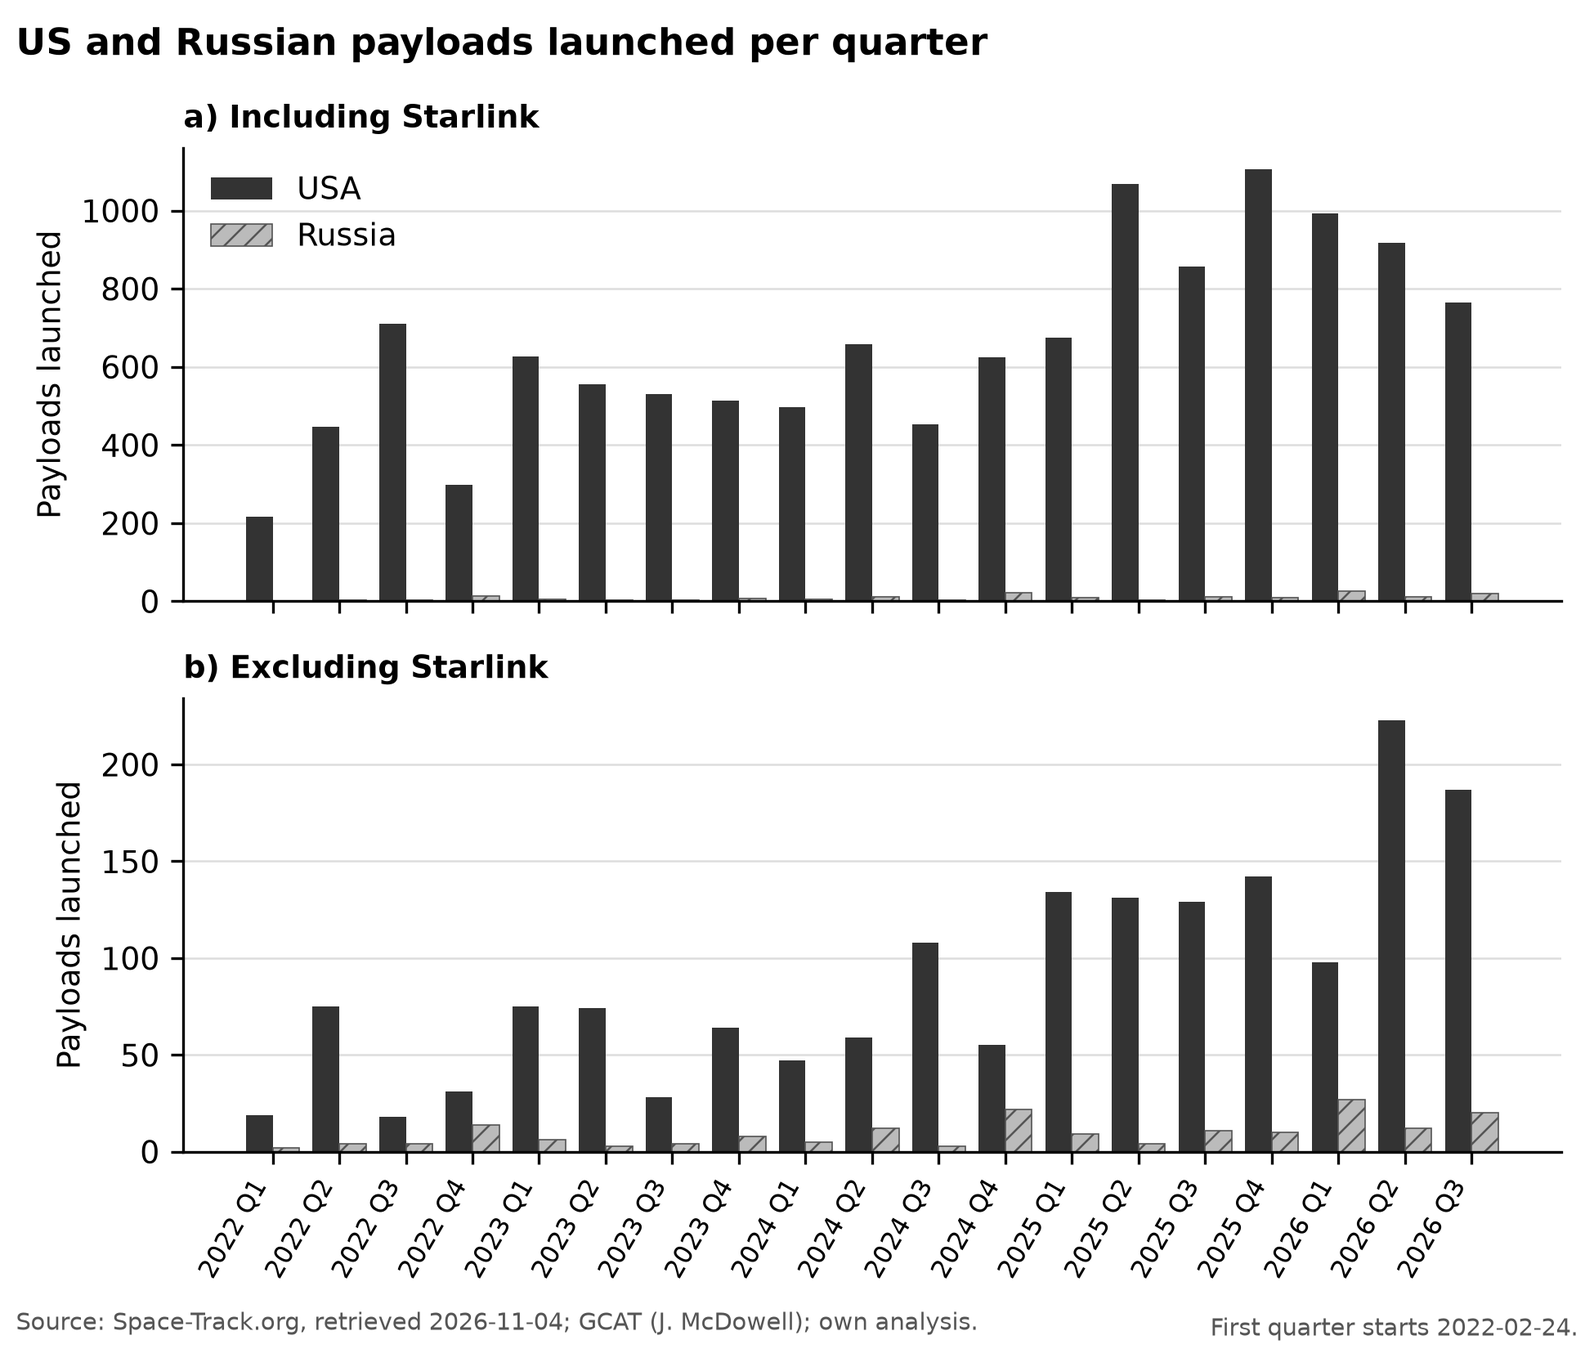
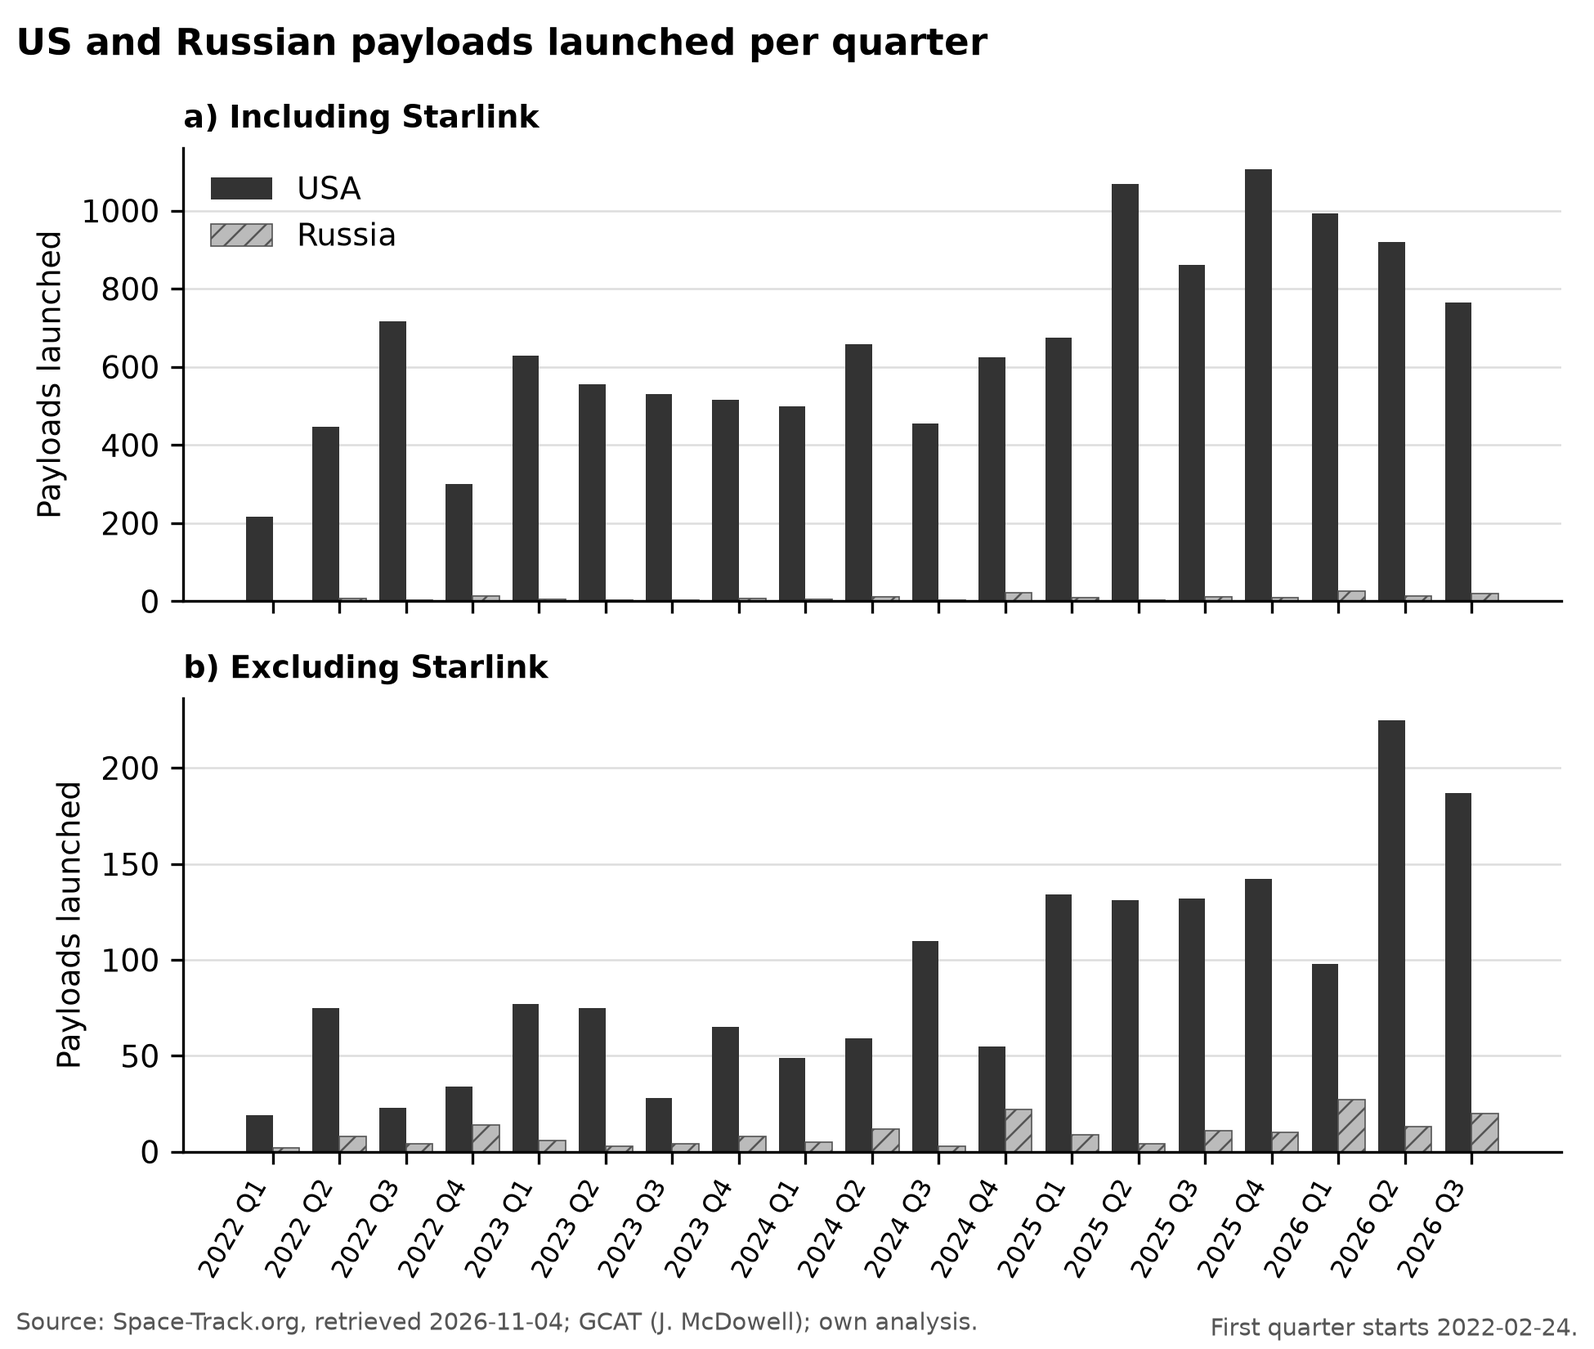
Include ISS-deployed satellites, apply review fixes
ISS-deployed payloads carry the ISS designator and 1998 launch date in
SATCAT, so the date filter missed them. Download them separately and
take the real launch date from GCAT. Generalise the H1 rule to four
groups, mark GLONASS source and document method details.

diff --git a/src/02_classify.py b/src/02_classify.py
@@ -2,8 +2,10 @@
 
 Input:
   data/raw/satcat_*.csv          (newest file, from 01_download.py)
+  data/raw/iss_deployed_*.csv    (newest file, from 01_download.py)
   data/raw/gcat/psatcat_*.tsv    (newest file, GCAT payload catalog by J. McDowell,
                                   https://planet4589.org/space/gcat/)
+  data/raw/gcat/satcat_*.tsv     (GCAT main catalog, real launch dates of ISS-deployed sats)
   manual_overrides.csv           (hand-made corrections, win over everything)
 
 Output:
@@ -22,7 +24,7 @@ Usage (from project root):  python src/02_classify.py
 
 import pandas as pd
 
-from common import DATA_PROCESSED, DATA_RAW, MANUAL_OVERRIDES, newest_file
+from common import DATA_PROCESSED, DATA_RAW, MANUAL_OVERRIDES, PERIOD_END, PERIOD_START, newest_file
 
 # ---------------------------------------------------------------------------
 # Settings
@@ -83,6 +85,38 @@ def load_gcat():
     return gcat[["NORAD_CAT_ID", "gcat_class", "gcat_category"]]
 
 
+def load_iss_deployed(gcat_payload_ids):
+    """Return ISS-deployed payloads whose cargo flight launched in the study period.
+
+    Space-Track gives them the ISS designator and launch date (1998). GCAT's main
+    catalog has the real launch date of the cargo flight (LDate) and its
+    designator (Launch_Tag), so we take those from GCAT.
+    Objects that GCAT does not list as payloads (e.g. items thrown away during
+    spacewalks) are dropped.
+    """
+    iss = pd.read_csv(newest_file(DATA_RAW, "iss_deployed_*.csv"))
+    not_payload = ~iss["NORAD_CAT_ID"].isin(gcat_payload_ids)
+    print(f"ISS objects dropped (not a payload in GCAT): {not_payload.sum()}")
+    iss = iss[~not_payload]
+    path = newest_file(DATA_RAW / "gcat", "satcat_*.tsv")
+    gcat = pd.read_csv(path, sep="\t", skiprows=[1], dtype=str)
+    gcat.columns = [c.lstrip("#").strip() for c in gcat.columns]
+    gcat = gcat.apply(lambda col: col.str.strip())
+    gcat = gcat[gcat["Satcat"].str.match(r"^\d+$", na=False)].copy()
+    gcat["NORAD_CAT_ID"] = gcat["Satcat"].astype(int)
+
+    iss = iss.merge(gcat[["NORAD_CAT_ID", "LDate", "Launch_Tag"]], on="NORAD_CAT_ID", how="left")
+    print(f"ISS-deployed payloads (all years): {len(iss)}, without GCAT date: {iss['LDate'].isna().sum()}")
+
+    # GCAT date '2022 Jun  3' (sometimes with time or '?') -> keep year, month, day
+    ldate = pd.to_datetime(iss["LDate"].str.split().str[:3].str.join(" "), format="%Y %b %d")
+    iss["LAUNCH"] = ldate.dt.strftime("%Y-%m-%d")
+    iss = iss[(iss["LAUNCH"] >= PERIOD_START) & (iss["LAUNCH"] <= PERIOD_END)].copy()
+    iss["launch_id"] = iss["Launch_Tag"]
+    print(f"ISS-deployed payloads launched in study period: {len(iss)}")
+    return iss.drop(columns=["LDate", "Launch_Tag"])
+
+
 def category_from_name(row):
     for country, prefix, category in NAME_RULES:
         if row["COUNTRY"] == country and row["OBJECT_NAME"].startswith(prefix):
@@ -127,8 +161,16 @@ def main():
     df["launch_id"] = df["INTLDES"].str.extract(r"^(\d{4}-\d{3})")[0]
     print(f"Records without launch id: {df['launch_id'].isna().sum()}")
 
-    # --- 2b) Category ---
     gcat = load_gcat()
+
+    # Add satellites deployed from the ISS (launch id = their cargo flight)
+    iss = load_iss_deployed(gcat["NORAD_CAT_ID"])
+    df["iss_deployed"] = False
+    iss["iss_deployed"] = True
+    df = pd.concat([df, iss], ignore_index=True)
+    print(f"Total records: {len(df)}")
+
+    # --- 2b) Category ---
     df = df.merge(gcat, on="NORAD_CAT_ID", how="left")
     print(f"Matched in GCAT: {df['gcat_class'].notna().sum()} of {len(df)}")
 
@@ -146,6 +188,7 @@ def main():
         & df["gcat_category"].fillna("").str.startswith("NAV")
     )
     df.loc[df["is_glonass"], "category"] = GLONASS_CATEGORY
+    df.loc[df["is_glonass"], "category_source"] = "glonass"
     print(f"GLONASS satellites: {df['is_glonass'].sum()} -> '{GLONASS_CATEGORY}'")
 
     # Manual overrides win over everything

diff --git a/src/03_charts.py b/src/03_charts.py
@@ -117,9 +117,9 @@ def rq1_military_missions(df):
     """Military satellites by mission type (from GCAT 'Category')."""
     mil = df[df["category"] == "military"].copy()
     code = mil["gcat_category"].fillna("").str.split("/").str[0].str.rstrip("?*")
-    mil["mission"] = code.map(MISSIONS).fillna("Other / not in GCAT")
+    mil["mission"] = code.map(MISSIONS).fillna("Not yet in GCAT / other")
     table = pd.crosstab(mil["mission"], mil["COUNTRY"].map(COUNTRY_LABEL))[["USA", "Russia"]]
-    order = list(MISSIONS.values()) + ["Other / not in GCAT"]
+    order = list(MISSIONS.values()) + ["Not yet in GCAT / other"]
     table = table.reindex(order, fill_value=0)
     table.loc["Total"] = table.sum()
     table.to_csv(TABLES / "rq1_military_missions.csv")
@@ -223,14 +223,18 @@ def evaluate_h1(shares):
     for name, value in leo.items():
         print(f"  {name:20s} {value:6.1%}")
 
-    overall = leo["USA excl. Starlink"] > LEO_THRESHOLD and leo["Russia"] > LEO_THRESHOLD
-    military = leo["US military"] > LEO_THRESHOLD and leo["Russian military"] > LEO_THRESHOLD
-    if overall and military:
-        result = "CONFIRMED (also for military satellites)"
-    elif overall:
-        result = "PARTIALLY CONFIRMED (holds overall, not for military satellites)"
+    # H1 wording includes military satellites, so all four groups are tested.
+    # Share = LEO / all payloads in the group, including those with unknown orbit
+    # (conservative). Starlink is left out so it does not decide the US result.
+    tested = ["USA excl. Starlink", "Russia", "US military", "Russian military"]
+    passed = [name for name in tested if leo[name] > LEO_THRESHOLD]
+    if len(passed) == len(tested):
+        result = "CONFIRMED (all tested groups above 50 %)"
+    elif passed:
+        failed = [name for name in tested if name not in passed]
+        result = f"PARTIALLY CONFIRMED (not met for: {', '.join(failed)})"
     else:
-        result = "REJECTED"
+        result = "REJECTED (no tested group above 50 %)"
     print(f"H1 result: {result}\n")
 
 

diff --git a/src/01_download.py b/src/01_download.py
@@ -31,6 +31,18 @@ QUERY = (
     "/format/csv"
 )
 
+# Satellites deployed from the ISS get the ISS designator (1998-067xx) and the
+# ISS launch date (1998-11-20), so the query above misses them. We download all
+# of them; 02_classify.py picks those that reached the ISS in the study period.
+ISS_QUERY = (
+    "/basicspacedata/query/class/satcat"
+    "/INTLDES/~~1998-067"
+    "/OBJECT_TYPE/PAYLOAD"
+    "/COUNTRY/US,CIS"
+    "/orderby/NORAD_CAT_ID asc"
+    "/format/csv"
+)
+
 # Columns the later steps rely on (see ANALYSIS_PLAN.md, step 1)
 EXPECTED_COLUMNS = [
     "NORAD_CAT_ID", "OBJECT_NAME", "INTLDES", "COUNTRY", "LAUNCH", "SITE",
@@ -47,6 +59,14 @@ def main():
     else:
         out_file.write_text(spacetrack_query(QUERY), encoding="utf-8")
         print(f"Saved to {out_file}")
+
+    iss_file = DATA_RAW / f"iss_deployed_{date.today().isoformat()}.csv"
+    if iss_file.exists():
+        print(f"{iss_file.name} already exists - skipping download.")
+    else:
+        iss_file.write_text(spacetrack_query(ISS_QUERY), encoding="utf-8")
+        print(f"Saved to {iss_file}")
+    print(f"ISS-deployed payloads (all years): {len(pd.read_csv(iss_file))}")
 
     # --- Quick check of what we downloaded ---
     df = pd.read_csv(out_file)

diff --git a/output/FINDINGS.md b/output/FINDINGS.md
@@ -1,7 +1,7 @@
 # Findings – USA vs Russia Satellite Tracking
 
 Data: Space-Track.org SATCAT (retrieved 2026-11-04) and GCAT by J. McDowell (version 2026-11-02); own analysis.
-Period: payloads launched **24 Feb 2022 – 30 Sep 2026**. 2022 is a partial year (from 24 Feb), 2026 covers January–September.
+Period: payloads launched **24 Feb 2022 – 30 Sep 2026**, including 26 small satellites deployed from the ISS (launch date = their cargo flight). 2022 is a partial year (from 24 Feb), 2026 covers January–September.
 All tables are generated by `src/03_charts.py` and `src/04_debris.py` (CSV versions in `output/tables/`).
 
 ---
@@ -12,11 +12,11 @@ All tables are generated by `src/03_charts.py` and `src/04_debris.py` (CSV versi
 
 |  | USA | USA excl. Starlink | Russia |
 |---|---:|---:|---:|
-| Orbital launches | 588 | 209 | 83 |
-| **Payloads total** | **12 510** | **1 697** | **180** |
-| Military | 513 | 513 | 71 |
-| Civil | 79 | 79 | 58 |
-| Commercial | 1 093 | 1 093 | 49 |
+| Orbital launches | 588 | 209 | 84 |
+| **Payloads total** | **12 531** | **1 718** | **185** |
+| Military | 514 | 514 | 71 |
+| Civil | 98 | 98 | 63 |
+| Commercial | 1 094 | 1 094 | 49 |
 | Starlink | 10 813 | – | – |
 | Unknown | 12 | 12 | 2 |
 
@@ -26,12 +26,12 @@ All tables are generated by `src/03_charts.py` and `src/04_debris.py` (CSV versi
 
 | Country | Category | 2022* | 2023 | 2024 | 2025 | 2026** | Total |
 |---|---|---:|---:|---:|---:|---:|---:|
-| USA | Military | 33 | 42 | 127 | 149 | 162 | 513 |
-| USA | Civil | 14 | 13 | 17 | 23 | 12 | 79 |
-| USA | Commercial | 95 | 186 | 125 | 364 | 323 | 1 093 |
+| USA | Military | 33 | 43 | 127 | 149 | 162 | 514 |
+| USA | Civil | 22 | 16 | 21 | 25 | 14 | 98 |
+| USA | Commercial | 95 | 186 | 125 | 365 | 323 | 1 094 |
 | USA | Starlink | 1 529 | 1 984 | 1 964 | 3 169 | 2 167 | 10 813 |
 | Russia | Military | 15 | 10 | 5 | 20 | 21 | 71 |
-| Russia | Civil | 5 | 11 | 27 | 10 | 5 | 58 |
+| Russia | Civil | 9 | 11 | 27 | 10 | 6 | 63 |
 | Russia | Commercial | 3 | 0 | 10 | 4 | 32 | 49 |
 
 *\* from 24 Feb 2022, \*\* until 30 Sep 2026. Unknown category omitted (14 payloads).*
@@ -42,20 +42,20 @@ All tables are generated by `src/03_charts.py` and `src/04_debris.py` (CSV versi
 |---|---:|---:|
 | Imaging / reconnaissance | 244 | 32 |
 | Communications | 74 | 17 |
-| Technology demonstration | 43 | 7 |
+| Technology demonstration | 44 | 7 |
 | Missile early warning | 23 | 1 |
 | Signals intelligence | 11 | 7 |
 | Navigation | 6 | 6 |
-| Other / not yet in GCAT | 112 | 1 |
-| **Total** | **513** | **71** |
+| Not yet in GCAT / other | 112 | 1 |
+| **Total** | **514** | **71** |
 
-*"Not yet in GCAT" = mostly US military satellites launched after July 2026, which GCAT has not catalogued yet.*
+*"Not yet in GCAT" = mostly US military satellites launched after GCAT's coverage ends (~July 2026); their mission is not unknown, just not yet catalogued.*
 
 ### What it shows
 
-- **The USA launched about 70× more payloads than Russia (12 510 vs 180).** The gap is driven by Starlink
+- **The USA launched about 70× more payloads than Russia (12 531 vs 185).** The gap is driven by Starlink
   (86 % of all US payloads), but even without Starlink the USA launched **9× more** payloads than Russia.
-- **Almost all payloads can be classified from open sources:** only 14 of 12 690 (0.1 %) remain unknown.
+- **Almost all payloads can be classified from open sources:** only 14 of 12 716 (0.1 %) remain unknown.
   Classification relies on catalogue names (e.g. `USA xxx`, `COSMOS xxxx`) and McDowell's GCAT, not on orbital data alone.
 - **US military launches grew roughly five-fold** from 33 (2022) to 162 (Jan–Sep 2026). The growth is in large LEO
   constellations (names `USA xxx` and `PRAETORIAN SDA`, i.e. Space Development Agency satellites).
@@ -72,18 +72,18 @@ All tables are generated by `src/03_charts.py` and `src/04_debris.py` (CSV versi
 
 | Group | n | LEO | MEO | HEO | GEO | Unknown |
 |---|---:|---:|---:|---:|---:|---:|
-| USA | 12 510 | 99.2 % | 0.1 % | 0.1 % | 0.5 % | 0.2 % |
-| USA excl. Starlink | 1 697 | 94.3 % | 0.4 % | 0.6 % | 3.4 % | 1.3 % |
-| Russia | 180 | 87.8 % | 6.7 % | 2.8 % | 2.2 % | 0.6 % |
-| US military | 513 | 90.4 % | 1.4 % | 0.0 % | 6.8 % | 1.4 % |
+| USA | 12 531 | 99.2 % | 0.1 % | 0.1 % | 0.5 % | 0.2 % |
+| USA excl. Starlink | 1 718 | 94.4 % | 0.4 % | 0.6 % | 3.3 % | 1.3 % |
+| Russia | 185 | 88.1 % | 6.5 % | 2.7 % | 2.2 % | 0.5 % |
+| US military | 514 | 90.5 % | 1.4 % | 0.0 % | 6.8 % | 1.4 % |
 | Russian military | 71 | 80.3 % | 11.3 % | 5.6 % | 2.8 % | 0.0 % |
 
-*LEO = apogee below 2 000 km; HEO = eccentricity above 0.25; GEO = period 1 400–1 460 min and eccentricity below 0.05; MEO = rest.*
+*LEO = apogee below 2 000 km; HEO = eccentricity above 0.25; GEO = period 1 400–1 460 min and eccentricity below 0.05; MEO = rest. Based on each satellite's current or last known orbit. Shares are taken over all payloads in the group, including those with unknown orbit (conservative).*
 
 ### What it shows
 
-- **H1 is confirmed, including for military satellites.** The LEO share is above 50 % in every group
-  (lowest: Russian military, 80 %).
+- **H1 is confirmed, including for military satellites.** Tested groups: USA excl. Starlink, Russia, US military and
+  Russian military; H1 holds if every group has more than 50 % in LEO. The lowest share is 80 % (Russian military).
 - **Russia uses MEO and HEO more than the USA.** MEO = GLONASS navigation satellites, HEO = highly elliptical
   orbits inclined at ~63° (visible in Figure 3), typical of Russian early-warning and communication systems
   that cover the northern hemisphere.

diff --git a/README.md b/README.md
@@ -14,11 +14,12 @@ pip install -r requirements.txt
 copy .env.example .env   # then fill in your Space-Track credentials
 ```
 
-The GCAT payload catalog is downloaded manually (no login needed):
+The GCAT catalogs are downloaded manually (no login needed):
 
 ```powershell
 mkdir data\raw\gcat
 curl.exe -o data\raw\gcat\psatcat_YYYY-MM-DD.tsv https://planet4589.org/space/gcat/tsv/cat/psatcat.tsv
+curl.exe -o data\raw\gcat\satcat_YYYY-MM-DD.tsv https://planet4589.org/space/gcat/tsv/cat/satcat.tsv
 ```
 
 ## Run
@@ -27,7 +28,7 @@ Run the scripts in order from the project root:
 
 | Script | What it does | Output |
 |---|---|---|
-| `src/01_download.py` | downloads US and Russian payloads from Space-Track SATCAT | `data/raw/satcat_<date>.csv` |
+| `src/01_download.py` | downloads US and Russian payloads from Space-Track SATCAT (+ ISS-deployed payloads) | `data/raw/satcat_<date>.csv`, `data/raw/iss_deployed_<date>.csv` |
 | `src/02_classify.py` | adds launch id, category (military / civil / commercial / Starlink) and orbit regime | `data/processed/satellites_classified.csv` |
 | `src/03_charts.py` | RQ1/RQ2 tables and charts, evaluates H1 | `output/tables/rq1_*, rq2_*`, `output/figures/fig1–3` |
 | `src/04_debris.py` | RQ3: Kosmos 1408 debris on orbit over time | `output/tables/rq3_debris.csv`, `output/figures/fig4_debris.png` |
@@ -37,8 +38,8 @@ Downloads run only once per day (if today's file exists, Space-Track is not cont
 ## Data sources
 
 - **Space-Track.org** SATCAT (account required), retrieved **2026-11-04**.
-- **GCAT** by Jonathan McDowell (planet4589.org), payload catalog `psatcat.tsv`, version updated 2026-11-02.
-  Used to classify satellites whose name does not reveal the operator.
+- **GCAT** by Jonathan McDowell (planet4589.org), `psatcat.tsv` and `satcat.tsv`, version updated 2026-11-02.
+  Used to classify satellites whose name does not reveal the operator and to date ISS-deployed satellites.
 - Raw and processed data are stored locally in `data/` and are **not** committed
   (Space-Track terms do not allow redistribution). Only aggregated tables and
   charts in `output/` are part of the repository.
@@ -47,6 +48,9 @@ Downloads run only once per day (if today's file exists, Space-Track is not cont
 
 - **Study period:** launches from 2022-02-24 (start of the Russian invasion of Ukraine) to 2026-09-30.
   Payloads only; decayed satellites are included. Russia = Space-Track country code `CIS`.
+- **ISS-deployed satellites:** Space-Track gives them the ISS designator and launch date (1998-067, 1998-11-20).
+  They are added separately; launch date and launch id are taken from their cargo flight (GCAT `LDate`, `Launch_Tag`).
+  Objects GCAT does not list as payloads (items jettisoned during spacewalks) are dropped. 26 satellites added (21 US, 5 Russia).
 - **Orbital launches** = distinct launches (international designator `YYYY-NNN`) carrying at least
   one payload of the country, regardless of the rocket's country.
 - **Category**, first match wins:
@@ -54,12 +58,17 @@ Downloads run only once per day (if today's file exists, Space-Track is not cont
   2. GCAT `Class` (D → military, C/A → civil, B → commercial),
   3. otherwise unknown; `manual_overrides.csv` overrides everything.
   GLONASS (COSMOS with GCAT category NAV) is counted as military (`GLONASS_CATEGORY` in `02_classify.py`).
-  Name rules agree with GCAT in 10 752 of 10 753 cases.
+  Name rules agree with GCAT in 10 746 of 10 747 cases.
 - **Orbit regime** from apogee, perigee and period: LEO (apogee < 2 000 km), HEO (eccentricity > 0.25),
   GEO (period 1 400–1 460 min, e < 0.05), otherwise MEO; unknown if orbital data are missing
   (deep-space missions and 7 US military satellites without published orbits).
+  The regime is based on the current or last known orbit, not the orbit at launch.
+- **H1 test:** LEO share = LEO / all payloads in the group (unknown orbits included, conservative).
+  Confirmed if USA excl. Starlink, Russia, US military and Russian military are all above 50 %;
+  partially confirmed if only some are; rejected if none.
 - **Limitation:** GCAT does not yet contain objects launched after ~11 July 2026 (new 6-digit NORAD numbers);
-  these were classified by name rules only.
+  these were classified by name rules only, have no mission type, and GLONASS satellites among them would not be
+  recognised (no effect now, COSMOS is military either way).
 
 ## Main results (retrieved 2026-11-04)
 
@@ -67,16 +76,16 @@ Downloads run only once per day (if today's file exists, Space-Track is not cont
 
 |  | USA | USA excl. Starlink | Russia |
 |---|---|---|---|
-| Orbital launches | 588 | 209 | 83 |
-| Payloads total | 12 510 | 1 697 | 180 |
-| Military | 513 | 513 | 71 |
-| Civil | 79 | 79 | 58 |
-| Commercial | 1 093 | 1 093 | 49 |
+| Orbital launches | 588 | 209 | 84 |
+| Payloads total | 12 531 | 1 718 | 185 |
+| Military | 514 | 514 | 71 |
+| Civil | 98 | 98 | 63 |
+| Commercial | 1 094 | 1 094 | 49 |
 | Starlink | 10 813 | – | – |
 | Unknown | 12 | 12 | 2 |
 
 **RQ2 – H1 (both countries focus on LEO): confirmed, also for military satellites.**
-LEO share: USA 99.2 %, USA excl. Starlink 94.3 %, Russia 87.8 %, US military 90.4 %, Russian military 80.3 %.
+LEO share: USA 99.2 %, USA excl. Starlink 94.4 %, Russia 88.1 %, US military 90.5 %, Russian military 80.3 %.
 
 **RQ3 – Kosmos 1408 ASAT test (2021-11-15):** 1 806 catalogued debris pieces (designator 1982-092).
 About half had decayed by mid-2022; 4 pieces remain on orbit at retrieval date.

diff --git a/ANALYSIS_PLAN.md b/ANALYSIS_PLAN.md
@@ -81,7 +81,7 @@ Pravidla podle `OBJECT_NAME`, v tomto pořadí:
 | obě | záznam je v `manual_overrides.csv` | hodnota ze souboru (má přednost před vším výše) |
 | obě | ostatní | `unknown` |
 
-Doplnění `unknown`: zkusit GCAT od Jonathana McDowella (planet4589.org, soubor s katalogem payloadů). Nejdřív stáhnout, vypsat hlavičky a ukázat, které pole obsahuje kategorii nebo vlastníka družice; teprve potom navrhnout mapování. Spojovat přes NORAD číslo. Co zůstane nezařazené, vypsat do `output/tables/unclassified.csv` k ruční kontrole.
+Doplnění `unknown`: zkusit GCAT od Jonathana McDowella (planet4589.org, soubor s katalogem payloadů). Nejdřív stáhnout, vypsat hlavičky a ukázat, které pole obsahuje kategorii nebo vlastníka družice; teprve potom navrhnout mapování. Spojovat přes NORAD číslo. Co zůstane nezařazené, vypsat do `data/processed/unclassified.csv` k ruční kontrole (obsahuje jednotlivé záznamy, proto ne do `output/`).
 
 **Otevřené rozhodnutí:** ruské navigační družice GLONASS mají v katalogu název `COSMOS xxxx`. Nastavit konstantu `GLONASS_CATEGORY` (výchozí `military`) a GLONASS družice identifikovat přes GCAT nebo ruční seznam. Výsledné rozhodnutí tým uvede v metodice.
 
@@ -127,7 +127,7 @@ Popisky grafů anglicky (report je v angličtině). Grafy musí být čitelné i
 
 **Tabulka `rq2_orbits.csv`:** stejná data v číslech.
 
-**Vyhodnocení hypotézy H1:** skript vypíše podíl LEO pro každou skupinu a výsledek pravidla: H1 je potvrzena, pokud je podíl LEO nad 50 % u USA (bez Starlinku) i u Ruska. Jinak zamítnuta nebo částečně potvrzena (např. platí celkově, ale ne pro vojenské družice).
+**Vyhodnocení hypotézy H1:** skript vypíše podíl LEO pro každou skupinu (LEO / všechny payloady skupiny, včetně neznámé orbity) a výsledek pravidla: H1 je potvrzena, pokud je podíl LEO nad 50 % u všech čtyř skupin (USA bez Starlinku, Rusko, US military, Russian military). Částečně potvrzena, pokud jen u některých; zamítnuta, pokud u žádné.
 
 **Graf 3 `fig3_scatter.png` (volitelný):** inklinace (osa x) proti výšce apogea (osa y, logaritmická), tvar nebo odstín bodu podle země.
 
